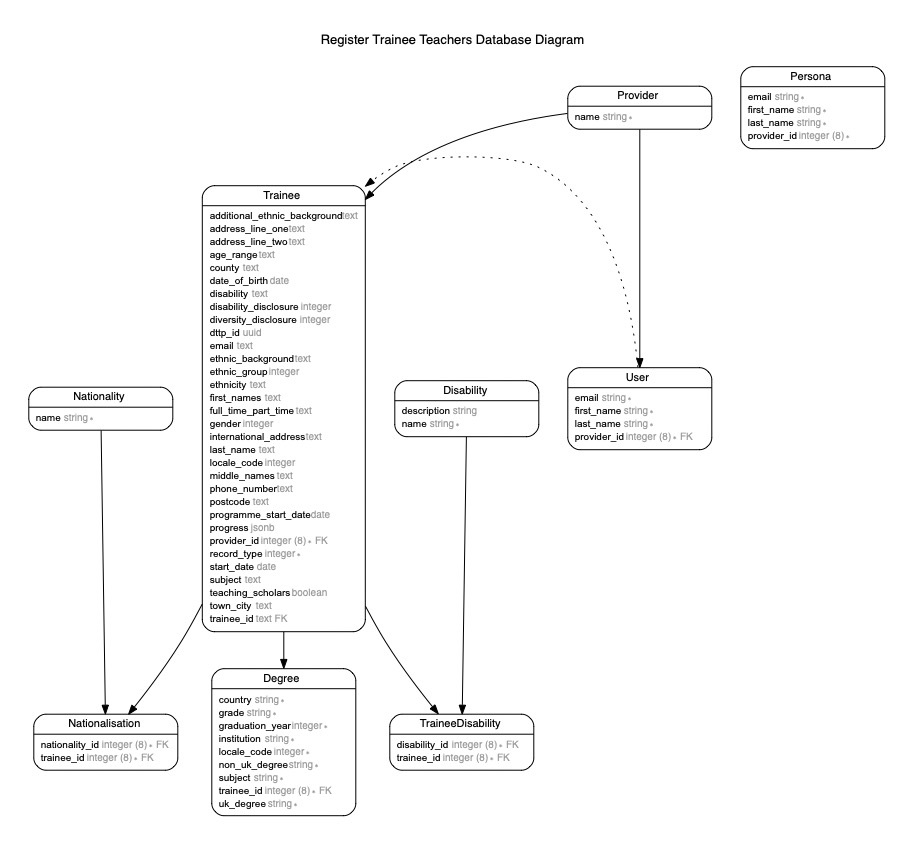
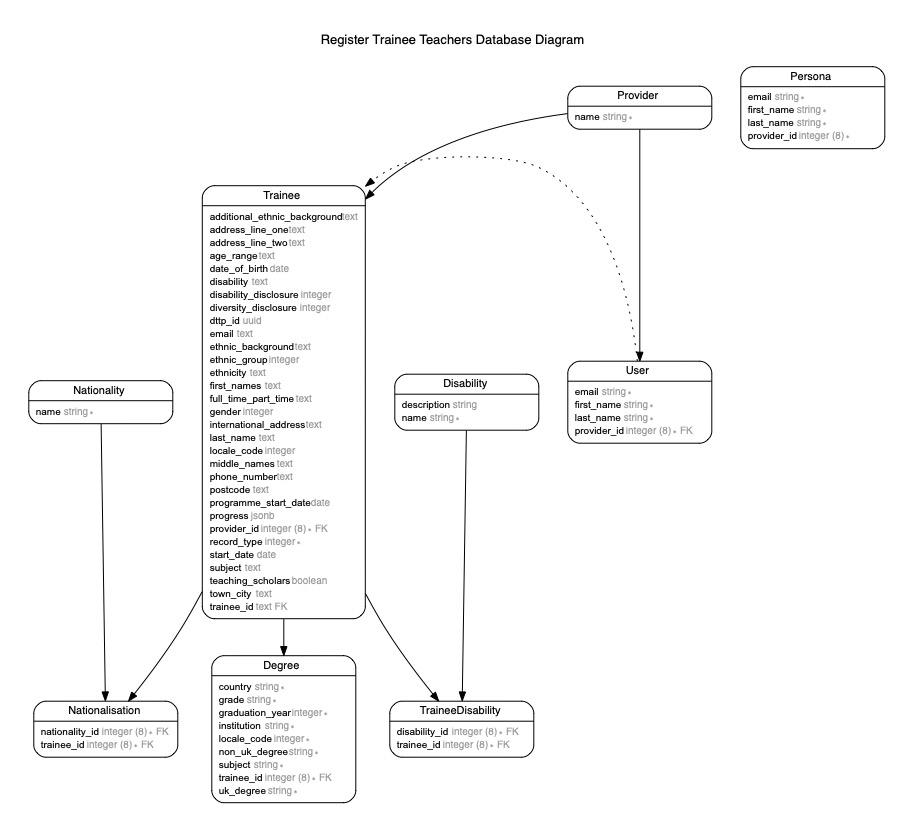
[408] Remove county attribute from trainee model
This attribute was originally added as part of the initial prototype
but now we have a much more stable design for contact details and this
attribute is no longer required.

diff --git a/db/schema.rb b/db/schema.rb
@@ -10,7 +10,7 @@
 #
 # It's strongly recommended that you check this file into your version control system.
 
-ActiveRecord::Schema.define(version: 2020_11_10_140112) do
+ActiveRecord::Schema.define(version: 2020_11_10_142405) do
 
   # These are extensions that must be enabled in order to support this database
   enable_extension "plpgsql"
@@ -82,7 +82,6 @@ ActiveRecord::Schema.define(version: 2020_11_10_140112) do
     t.text "address_line_one"
     t.text "address_line_two"
     t.text "town_city"
-    t.text "county"
     t.text "postcode"
     t.text "phone_number"
     t.text "email"

diff --git a/spec/features/trainees/trainee_summary_spec.rb b/spec/features/trainees/trainee_summary_spec.rb
@@ -39,7 +39,7 @@ feature "Trainee summary page", type: :system do
   end
 
   def then_i_can_see_the_contact_details
-    expected_address = "#{@trainee.address_line_one}, #{@trainee.address_line_two}, #{@trainee.town_city}, #{@trainee.county}"
+    expected_address = "#{@trainee.address_line_one}, #{@trainee.address_line_two}, #{@trainee.town_city}"
 
     expect(@summary_page.contact_details.address.text).to eq(expected_address)
     expect(@summary_page.contact_details.postcode.text).to eq(@trainee.postcode)

diff --git a/spec/factories/trainees.rb b/spec/factories/trainees.rb
@@ -25,7 +25,6 @@ FactoryBot.define do
     address_line_one { Faker::Address.street_address }
     address_line_two { Faker::Address.street_name }
     town_city { Faker::Address.city }
-    county { Faker::Address.state }
     postcode { Faker::Address.postcode }
     international_address { nil }
     locale_code { :uk }

diff --git a/db/migrate/20201110142405_remove_county_from_trainees.rb b/db/migrate/20201110142405_remove_county_from_trainees.rb
@@ -1,0 +1,5 @@
+class RemoveCountyFromTrainees < ActiveRecord::Migration[6.0]
+  def change
+    remove_column :trainees, :county, :text
+  end
+end
